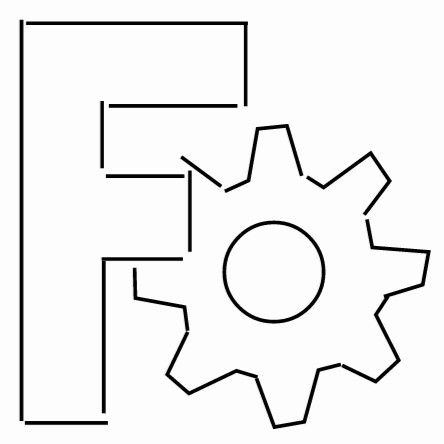
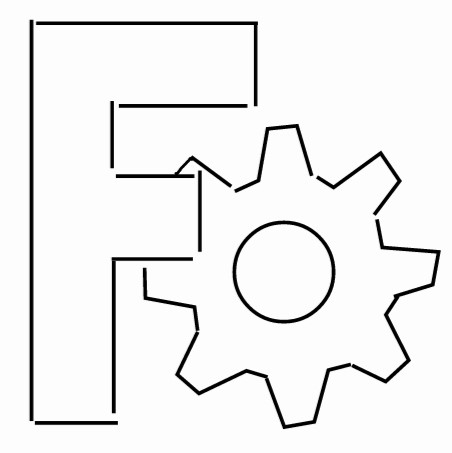
Khepri modules
- changed some of the logos
- removed ifc and unreal modules
- made clickable index

Changed region(s): [[0.0293, 0.0293, 0.9955, 0.9662], [0.4977, 0.4685, 0.7613, 0.732], [0.7905, 0.3221, 0.9077, 0.4392]]

diff --git a/tools/khepri.html b/tools/khepri.html
@@ -77,20 +77,19 @@
                         
                         <p> In order to use Khepri, three software pieces are required:
                             <br /> <br />
-                            1 &#x2022; The programming language, <b>Julia</b>.
+                            <a href="#julia">1 &#x2022;</a> The programming language, <b>Julia</b>.
                             <br />
-                            2 &#x2022; A programming environment, <b>Visual Studio Code</b>, 
-                            along with the proper extensions for the Julia programming
-                            language.
+                            <a href="#vscode">2 &#x2022;</a> A programming environment, <b>Visual Studio Code</b>, 
+                            along with the proper extensions for Julia.
                             <br />
-                            3 &#x2022; The algorithmic design tool, <b>Khepri</b>.
+                            <a href="#khepri">3 &#x2022;</a> The algorithmic design tool, <b>Khepri</b>.
                             <br /><br />
                             This page contains the instructions for the required installations, as
                             well as:
                             <br /><br />
-                            4 &#x2022; Beginner tips on how to use the programming environment.
+                            <a href="#tips">4 &#x2022;</a> <b>Beginner tips</b> on how to use Visual Studio Code.
                             <br />
-                            5 &#x2022; Instruction on how to install and use Khepri <b>Traceability</b>. 
+                            <a href="#traceability">5 &#x2022;</a> Instruction on how to install and use Khepri <b>Traceability</b>. 
                         </p>
                      </section>  
 
@@ -98,7 +97,7 @@
                         <div class="row">
                             <div class="10u 12u">
                                 <div class="row">
-                                    <h3>1.</h3>
+                                    <h3 id="julia">1.</h3>
                                     <h3> Julia programming language </h3>
                                 </div>
                                 <p> First, install <b>Julia</b>: <a href="https://julialang.org/downloads/">https://julialang.org/downloads/</a>
@@ -114,7 +113,7 @@
                          
                      <section class="wrapper style3 container special">
 
-                        <div class="row"><h3>2.</h3>
+                        <div class="row"><h3 id="vscode">2.</h3>
                             <h3> Programming Environment </h3>
                             </div>
                             
@@ -210,14 +209,18 @@
                     <section class="wrapper style3 container special">
                         <div class="row">
                             <div class="10u 12u">
-                                <div class="row"><h3>3.</h3>
+                                <div class="row"><h3 id="khepri">3.</h3>
                                 <h3> Khepri algorithmic design tool: Released version </h3> </div>
                                 <br />
 
                             <p><b>In this section we show you how to install the released version of the Khepri AD
                                 tool. Khepri v1.1.0 is a stable and documented version of the tool from 2022. However,
                                 it does not accommodate the developments the research team has been working on since then.</b>
-                            </p> 
+                            </p>  
+                            </div>
+                            <div class="2u 12u">
+                                <a class="image featured"><img src="khepri/khepri.png" alt="" title="Khepri"/></a>
+                            </div>
 
                                 <p> With the cursor in the REPL press <i>Enter</i>. Julia should have
                                     started and will begin its own installation process. When finished,
@@ -227,11 +230,7 @@
                                     <br />
                                     After the installation is done, press <i>backspace</i>
                                     (&#8592;) to return to the Julia prompt (<code>julia></code>).
-                                </p> 
-                            </div>
-                            <div class="2u 12u">
-                                <a class="image featured"><img src="khepri/khepri.png" alt="" title="Khepri"/></a>
-                            </div>
+                                </p>
                         </div>
                         <p> To test if the installation worked, start by connecting to the AutoCAD
                         backend. Write and evaluate the following lines of code in the REPL by
@@ -286,6 +285,10 @@
                             exploring. The Base module should always be installed, as it provides support to all others.
                             We will exemplify the installation process with the AutoCAD module. </b>
                             </p>
+                        </div>
+                        <div class="2u 12u">
+                            <a class="image featured"><img src="khepri/khepri_up.png" alt="" title="Khepri"/></a>
+                        </div>
 
                             <p> Press the <b>]</b> key in the Julia REPL. The Julia prompt (<code>julia></code>) should
                             change to a package installation prompt (<code>pkg></code>). In front of it, type
@@ -295,10 +298,6 @@
                                 done, you may press <i>backspace</i>
                                 (&#8592;) to return to the Julia prompt (<code>julia></code>).
                             </p> 
-                        </div>
-                        <div class="2u 12u">
-                            <a class="image featured"><img src="khepri/khepri_up.png" alt="" title="Khepri"/></a>
-                        </div>
                     </div>
                     <p> To test if the installation worked, write and evaluate the following lines of code in the REPL
                     by clicking <i>Enter</i> after each instruction:
@@ -320,12 +319,27 @@
                             AutoCAD&#39;</i>... just do what it says.
                         </p>
                         
-                        <h4> Khepri Modules </h4> <br />
+                        <h4> Khepri Application Modules </h4> <br />
+
                         <div class="row">
+                            <div class="3u 12u"></div>
                             <div class="2u 12u">
                                 <pcenter>KhepriBase</pcenter><br /><br />
-                                <a class="image featured"><img src="khepri/khepri.png" alt="" title="Base"/></a>
+                                <a class="image featured"><img src="khepri/modules/khepri.jpg" alt="" title="Base"/></a>
                             </div>
+                            <div class="2u 12u">
+                                <pcenter>KhepriIllustrator</pcenter><br /><br />
+                                <a class="image featured"><img src="khepri/modules/illustrator.jpg" alt="" title="Illustrator"/></a>
+                            </div>
+                            <div class="2u 12u">
+                                <pcenter>KhepriGrasshopper</pcenter><br /><br />
+                                <a class="image featured"><img src="khepri/modules/grashopper.png" alt="" title="Grasshopper"/></a>
+                            </div>
+                        </div><br /><br />
+
+                        <h4> Khepri Backend Modules </h4> <br />
+
+                        <div class="row">
                             <div class="2u 12u">
                                 <pcenter>KhepriAutoCAD</pcenter><br /><br />
                                 <a class="image featured"><img src="khepri/modules/autocad.jpg" alt="" title="AutoCAD"/></a>
@@ -338,16 +352,14 @@
                                 <pcenter>KhepriFreeCAD</pcenter><br /><br />
                                 <a class="image featured"><img src="khepri/modules/freecad.jpg" alt="" title="FreeCAD"/></a>
                             </div>
-                            <div class="2u 12u">
+                            <!-- <div class="2u 12u">
                                 <pcenter>KhepriIFC</pcenter><br /><br />
                                 <a class="image featured"><img src="khepri/modules/ifc.jpg" alt="" title="IFC"/></a>
-                            </div>
+                            </div> -->
                             <div class="2u 12u">
                                 <pcenter>KhepriRevit</pcenter><br /><br />
                                 <a class="image featured"><img src="khepri/modules/revit.jpg" alt="" title="Revit"/></a>
                             </div>
-                        </div>
-                        <div class="row">
                             <div class="2u 12u">
                                 <pcenter>KhepriBlender</pcenter><br /><br />
                                 <a class="image featured"><img src="khepri/modules/blender.jpg" alt="" title="Blender"/></a>
@@ -356,23 +368,20 @@
                                 <pcenter>KhepriUnity</pcenter><br /><br />
                                 <a class="image featured"><img src="khepri/modules/unity.jpg" alt="" title="Unity"/></a>
                             </div>
-                            <div class="2u 12u">
-                                <pcenter>KhepriUnreal</pcenter><br /><br />
-                                <a class="image featured"><img src="khepri/modules/unreal.jpg" alt="" title="Unreal"/></a>
-                            </div><div class="2u 12u">
-                                <pcenter>KhepriMeshCat</pcenter><br /><br />
-                                <a class="image featured"><img src="khepri/modules/meshcat.png" alt="" title="MeshCat"/></a>
-                            </div>
-                            <div class="2u 12u">
-                                <pcenter>KhepriTikZ</pcenter><br /><br /><br />
-                                <a class="image featured"><img src="khepri/modules/tikz.jpg" alt="" title="TikZ"/></a>
-                            </div>
-                            <div class="2u 12u">
-                                <pcenter>KhepriIllustrator</pcenter><br /><br />
-                                <a class="image featured"><img src="khepri/modules/illustrator.png" alt="" title="Illustrator"/></a>
-                            </div>
                         </div>
                         <div class="row">
+                            <!-- <div class="2u 12u">
+                                <pcenter>KhepriUnreal</pcenter><br /><br />
+                                <a class="image featured"><img src="khepri/modules/unreal.jpg" alt="" title="Unreal"/></a>
+                            </div> -->
+                            <div class="2u 12u">
+                                <pcenter>KhepriMeshCat</pcenter><br /><br />
+                                <a class="image featured"><img src="khepri/modules/meshcat.jpg" alt="" title="MeshCat"/></a>
+                            </div>
+                            <div class="2u 12u">
+                                <pcenter>KhepriTikZ</pcenter><br /><br />
+                                <a class="image featured"><img src="khepri/modules/tikz.jpg" alt="" title="TikZ"/></a>
+                            </div>
                             <div class="2u 12u">
                                 <pcenter>KhepriRobot</pcenter><br /><br />
                                 <a class="image featured"><img src="khepri/modules/robot.jpg" alt="" title="Robot"/></a>
@@ -389,10 +398,6 @@
                                 <pcenter>KhepriPOVRay</pcenter><br /><br />
                                 <a class="image featured"><img src="khepri/modules/povray.jpg" alt="" title="POVRay"/></a>
                             </div>
-                            <div class="2u 12u">
-                                <pcenter>KhepriGrasshopper</pcenter><br /><br />
-                                <a class="image featured"><img src="khepri/modules/grashopper.png" alt="" title="Grasshopper"/></a>
-                            </div>
                         </div>
 
 
@@ -402,13 +407,13 @@
 
                  <section class="wrapper style3 container special">
 
-                    <div class="row"><h3>4.</h3>
+                    <div class="row"><h3 id="tips">4.</h3>
                         <h3> Beginner tips for the programming environment </h3>
                         </div>
 
                     <!-- <h3>OPTION A - Visual Studio Code </h3>  -->
 
-                    <a href="khepri/vscode_env.jpg" class="image featured"><img src="khepri/vscode_env.jpg"
+                    <a href="khepri/vscode_env.jpg" class="image featured"><img src="khepri/vscode_env.png"
                     alt="" title="Visual Studio Code programming environment"/></a>
                     <br />
 
@@ -571,7 +576,7 @@
 
                <section class="wrapper style3 container special">
 
-                        <div class="row"><h3>5.</h3>
+                        <div class="row"><h3 id="traceability">5.</h3>
                         <h3> Khepri Traceability </h3> </div>
 
                         <br />
